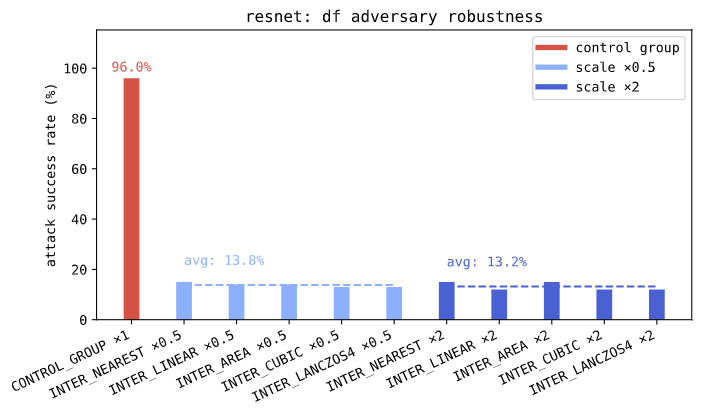
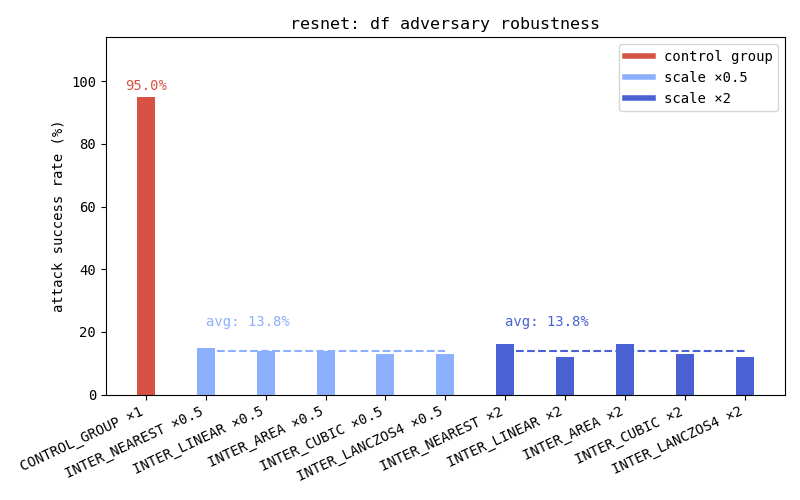
Revalidate attacks with new perturb budgets

Changed region(s): [[0.0, 0.0289, 0.9886, 0.9831]]

diff --git a/adversarial_attack/adv_robustness_test.py b/adversarial_attack/adv_robustness_test.py
@@ -31,12 +31,12 @@ from utils import utils
 # Models: resnet, vgg, mobilenet, inception
 # Attacks: fgsm, bim, mim, df, cw, hsj, ga
 MODEL_NAME = "resnet"
-ATTACK_MTD = "fgsm"
+ATTACK_MTD = "hsj"
 
 SAVE_RESULTS = True
 PLOT_RESULTS = True
 
-ADV_SAVE_PATH = "advs/{}/{}/0417_0546_0.031_adv.npy".format(
+ADV_SAVE_PATH = "advs/{}/{}/0422_0903_0.500_adv.npy".format(
   MODEL_NAME, ATTACK_MTD
 )
 
@@ -128,7 +128,7 @@ def plot_results(original_data, flattened_data):
       Line2D([0], [0], color=color_val[2], lw=4),
     ]
 
-    plt.figure(figsize=(8, 4))
+    plt.figure(figsize=(8, 5))
     bars = plt.bar(keys, data, color=colors, width=0.3)
     plt.hlines(avg_05, 1, 5, colors=color_val[0.5], linestyles="dashed")
     plt.hlines(avg_2, 6, 10, colors=color_val[2], linestyles="dashed")
@@ -150,10 +150,11 @@ def plot_results(original_data, flattened_data):
     plt.ylim(0, np.max(data) * 1.2)
     plt.legend(custom_lgd, ["control group", "scale ×0.5", "scale ×2"])
     plt.title("{}: {} adversary robustness".format(MODEL_NAME, ATTACK_MTD))
-    plt.show()
+    plt.tight_layout()
 
     # save plot to local
-    plt.savefig("plots/{}_{}.png".format(MODEL_NAME, ATTACK_MTD))
+    plt.savefig("plots/{}_{}.png".format(MODEL_NAME, ATTACK_MTD), dpi=100)
+    plt.show()
 
 
 # %%
